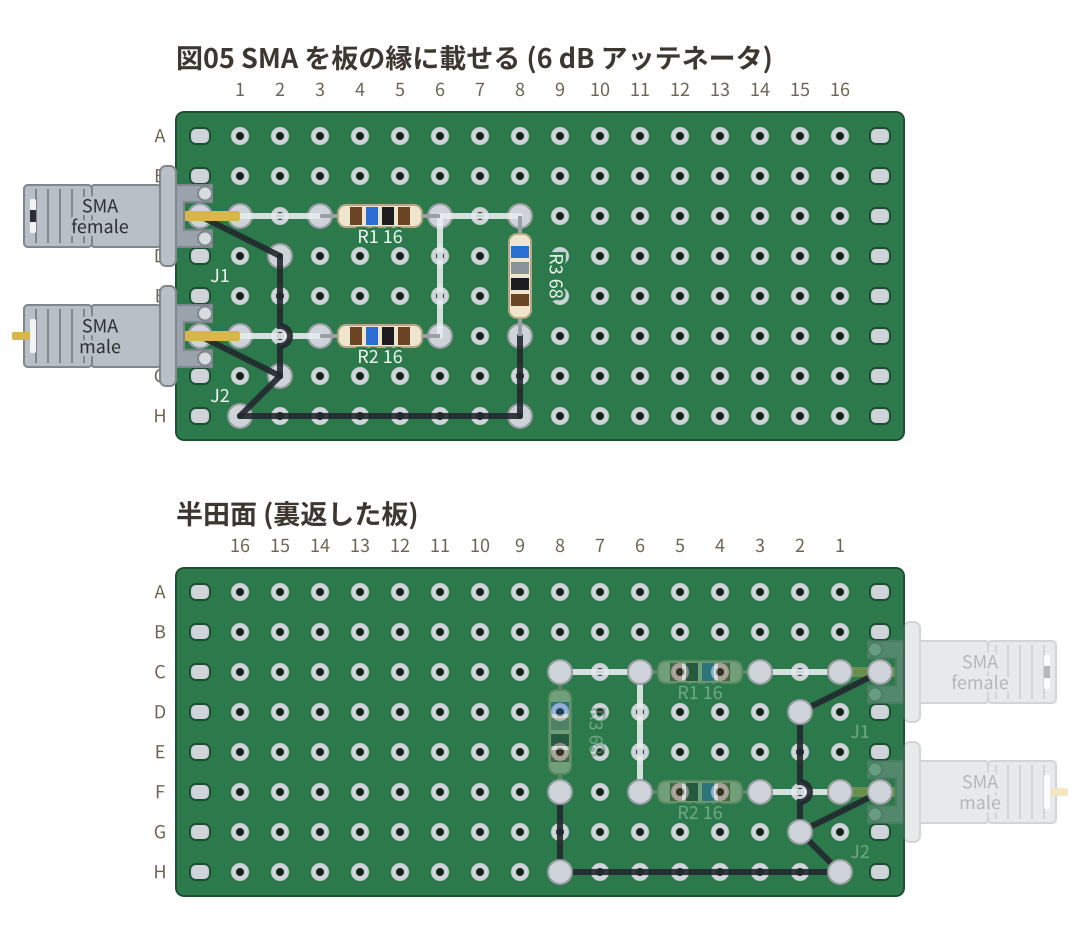
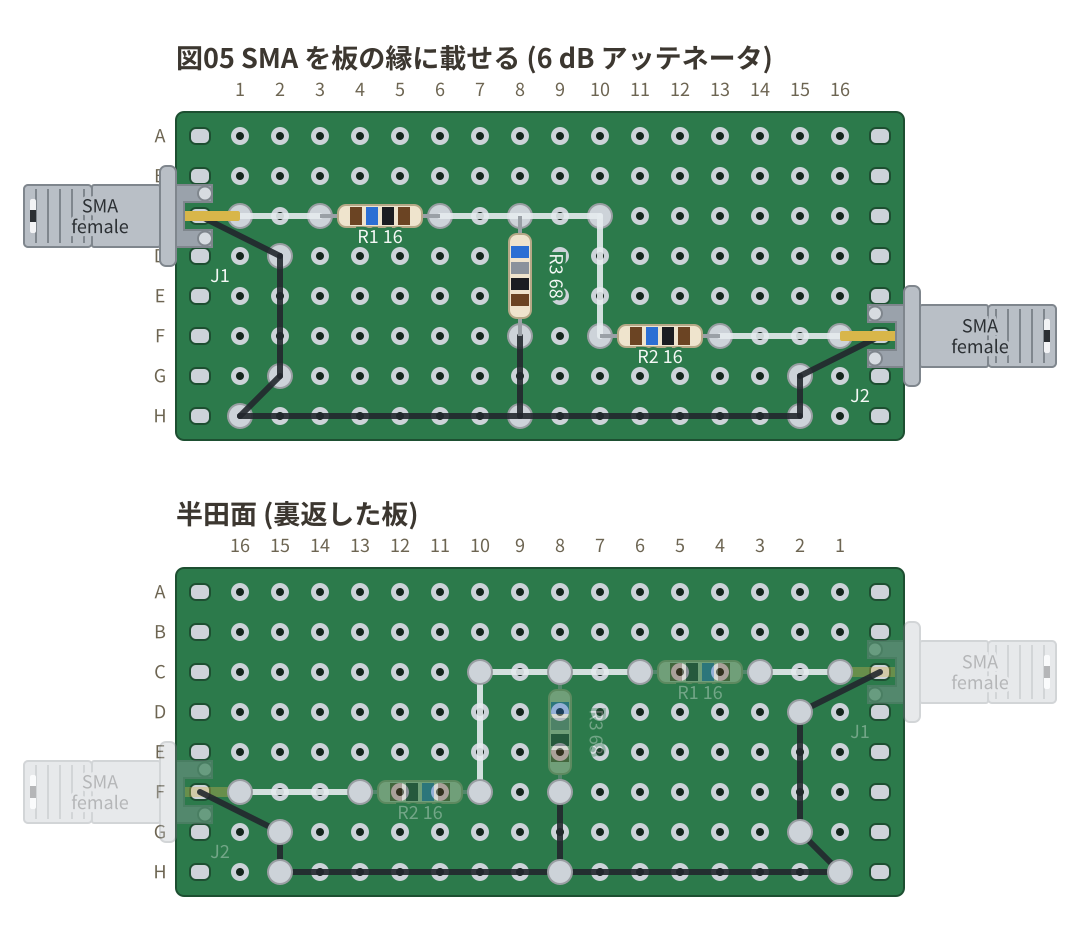
fix(perfboard-fence): 端面実装のアースは穴ではなく腕の接点で付ける
`sma/*-edge` の GND は板の縁を凹の腕で挟んで**腕の上で半田付けする**ので、
穴には挿さらない。それなのに足の番地が「半田で埋まった穴」として銀の玉に
なっていて、挿せない穴に足が入っているように見えていた。埋めるのをやめ、
付ける場所は胴に描いた白い接点のほうに任せる。

図05 は J2 を female にして板の右端へ移し、信号が左から右へ抜ける形にした
(載せる辺は縁側の GND の番地が決める)。

🤖 Generated with [Claude Code](https://claude.com/claude-code)

diff --git a/packages/perfboard-fence/src/core/index.ts b/packages/perfboard-fence/src/core/index.ts
@@ -22,6 +22,8 @@ import { checkErc } from './erc/erc.ts';
 import { checkFit } from './placement/collide.ts';
 import { drawnExtent } from './placement/geometry.ts';
 import { holeStrip } from './model/board.ts';
+import { formatAddress } from './model/address.ts';
+import { isEdgeMount } from './parts/types.ts';
 import { parseAddress } from './model/address.ts';
 import { offBoardReason } from './model/board.ts';
 import { fenceError, notice, safeToken } from './errors.ts';
@@ -197,13 +199,24 @@ export function renderPerfboard(input: string): RenderResult {
 
   // **画布からはみ出す部品ぶん、画布を広げる。** 端面実装のコネクタは板の外へ
   // 張り出すので、板の寸法だけで画布を決めると図が黙って切れる。
+  // **端面実装のコネクタのアースは穴に挿さらない。** 板の縁を凹の腕で挟んで、
+  // **腕の上の接点 (胴に描く白い丸) で半田付けする**ので、埋まる穴は出ない。
+  // 配線がそこへ来ても同じ — 付ける先は穴ではなく腕のほう。
+  // ここを埋めると、挿せない穴に足が入っているように見える。
+  const onArms = new Set(
+    placement.parts
+      .filter((part) => isEdgeMount(part.type, part.variant))
+      // 端面実装は「中心導体を先に、板の縁側の GND をあとに」書く (docs/01)。
+      .flatMap((part) => (part.pins[1] === undefined ? [] : [formatAddress(part.pins[1].address)])),
+  );
+
   // **半田付けする穴。** 足が入った穴と、配線が来た穴のどちらも埋まる。
   // 埋めた穴と空いた穴が同じ形だと、どこを付けるのか図から読めない。
   const soldered = [
     ...placement.parts.flatMap((part) => part.pins.map((pin) => pin.address)),
     ...wiring.wires.flatMap((wire) => [wire.from, wire.to]),
     ...wiring.deviceWires.map((wire) => wire.hole),
-  ];
+  ].filter((address) => !onArms.has(formatAddress(address)));
 
   // 配線や注釈も板の外を指せるので、部品の胴と一緒に見る。
   const pointsOn = (on: typeof layout) => [

diff --git a/packages/perfboard-fence/examples/02-parts.md b/packages/perfboard-fence/examples/02-parts.md
@@ -121,6 +121,8 @@ wires:
 当たり判定は胴の大きさで見る (隣に部品を置くと重なりとして言われる)。
 
 `-edge` を付けると**横置き** (端面実装)。板の縁に載せて、首から先を板の外へ出す。
+**載せる辺は番地が決める** — 縁側の GND を左の銅箔 (`c0`) に書けば左向き、
+右の銅箔 (`f17`) に書けば右向きに出る。
 図は実物の外形図と同じ 3 段 — 左から**ねじ部** (1/4-36UNS の筋)、**ねじなし**、
 **台座**。**台座の右端が板の縁**に来る (実物もそこで板を挟む。台座の厚さは 1mm)。
 そこから先は**凹の形**で、**上下にアース**が伸び、その間から**中心導体が凸に**
@@ -137,21 +139,24 @@ points:
   GND: h1
 parts:
   J1: sma/female-edge c1 c0
-  J2: sma/male-edge f1 f0
+  J2: sma/female-edge f16 f17
   R1: resistor c3 c6 16
-  R2: resistor f3 f6 16
+  R2: resistor f10 f13 16
   R3: resistor c8 f8 68
 wires:
   - c1 -- c3
-  - c6 -- f6
-  - f3 -- f1
   - c6 -- c8
+  - c8 -- c10
+  - c10 -- f10
+  - f13 -- f16
   - f8 -- h8 black
   - h8 -- GND black
   - c0 -- d2 black
   - d2 -- g2 black
-  - f0 -- g2 black
   - g2 -- GND black
+  - f17 -- g15 black
+  - g15 -- h15 black
+  - h15 -- h8 black
 ```
 
 ![図05 SMA を板の縁に載せる (6 dB アッテネータ)](out/02-parts-5.svg)
@@ -159,21 +164,26 @@ wires:
 **張り出すのは GND の側。** 実物は GND の脚が板の縁に来て、中心導体がその内側まで
 伸びるので、**中心導体を先に、板の縁側の GND をあとに**書く。
 
-上の図の GND は **`c0`** — 板の外の番地で、**縁の銅箔 (スロット) の位置**にあたる。
-銅箔は穴の格子のちょうど 1 つ外に並んでいるので、`0` 列がそのままその銅箔になる。
-つまり**脚を銅箔に半田付けした**ことになり、ネットにもそう出る。
+上の図の GND は **`c0`** と **`f17`** — どちらも板の外の番地で、**縁の銅箔
+(スロット) の位置**にあたる。銅箔は穴の格子のちょうど 1 つ外に並んでいるので、
+`0` 列と `17` 列がそのままその銅箔になる。つまり**脚を銅箔に半田付けした**
+ことになり、ネットにもそう出る。
 
 ```text
 N1  : J1.1, R1.1
-N2  : R1.2, R2.2, R3.1
-N3  : R2.1, J2.1
 GND : J1.2, J2.2, R3.2
+N2  : J2.1, R2.2
+N3  : R1.2, R2.1, R3.1
 ```
 
-**アースは 2 つの脚を銅箔の上で結ぶ。** 実物の銅箔は 1 枚続きなので脚どうしは
-つながっているが、**この板では穴も銅箔も 1 つずつが独立**していて、
-図の上で結ばれていないものは組む人にも結ばれていない。線を 1 本引いておけば、
-どこを半田付けするのかが図に出る。
+**アースの穴は埋まらない。** 端面実装の脚は穴に挿さらず、板の縁を凹の腕で
+挟んで**腕の上で半田付けする**ので、半田で埋まった穴ではなく**胴に描いた
+白い接点**が付ける場所になる。
+
+**その脚も配線でつなぐ。** 実物の銅箔は 1 枚続きなので脚どうしはつながって
+いるが、**この板では穴も銅箔も 1 つずつが独立**していて、図の上で結ばれて
+いないものは組む人にも結ばれていない。線を引いておけば、どこを半田付けするのかが
+図に出る。
 
 中身は **50Ω 系の 6 dB T 型アッテネータ** (直列 16Ω が 2 本、分岐に 68Ω)。
 測定器の前に挟んで反射を抑える、板 1 枚で作れるものの代表。

diff --git a/packages/perfboard-fence/CHANGELOG.md b/packages/perfboard-fence/CHANGELOG.md
@@ -5,6 +5,13 @@
 
 ## [Unreleased]
 
+### Fixed
+
+- **端面実装のコネクタ (`sma/*-edge`) のアースの穴を、半田で埋めなくなった。**
+  脚は穴に挿さらず、板の縁を凹の腕で挟んで**腕の上で半田付けする**ので、
+  埋まった穴を描くと挿せない穴に足が入っているように見えていた。付ける場所は
+  胴に描いた白い接点のほう。
+
 ### Added
 
 - **白黒のテーマ (`mono`) で、色が網と線の型に移るようになった。** 配線の色・
